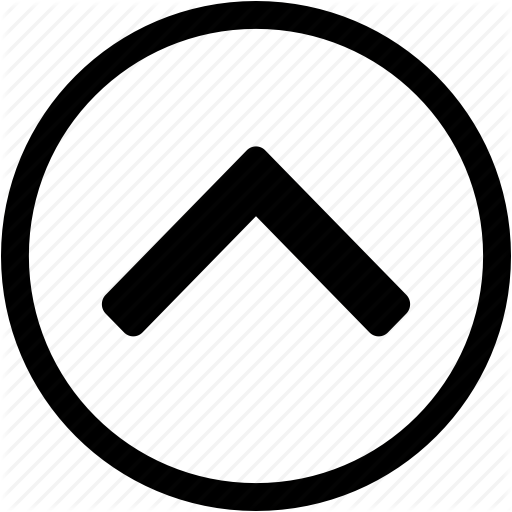
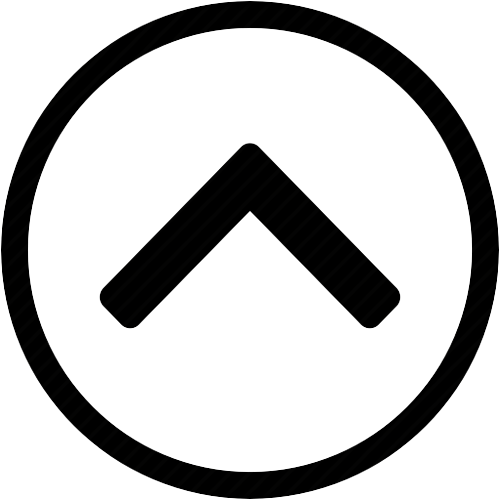
pending

diff --git a/src/components/BackTop.jsx b/src/components/BackTop.jsx
@@ -1,5 +1,5 @@
 import React, { useState, useEffect } from "react";
-import bktop from "../assets/img/png/top-arrow.png";
+import bktop from "../assets/img/png/btop.png";
 
 const BackTop = () => {
   const top = () => {
@@ -25,14 +25,17 @@ const BackTop = () => {
           backToTop
             ? "btn d-block position-fixed end-0 bottom-0 mb-2 border-0 "
             : "btn d-none position-fixed end-0 bottom-0 mb-2 border-0"
-        }>
-        <img
-          style={{ minWidth: "30px", maxWidth: "3%" }}
-          className=" position-fixed end-0 bottom-0 m-3 rounded-5 "
-          src={bktop}
-          alt="backtotopimg"
-        />
-      </button>{" "}
+        }
+      >
+        <div className="btop_bg">
+          <img
+            style={{ minWidth: "30px", maxWidth: "3%" }}
+            className=" position-fixed end-0 bottom-0 m-3 rounded-5 "
+            src={bktop}
+            alt="backtotopimg"
+          />
+        </div>
+      </button>
     </div>
   );
 };
